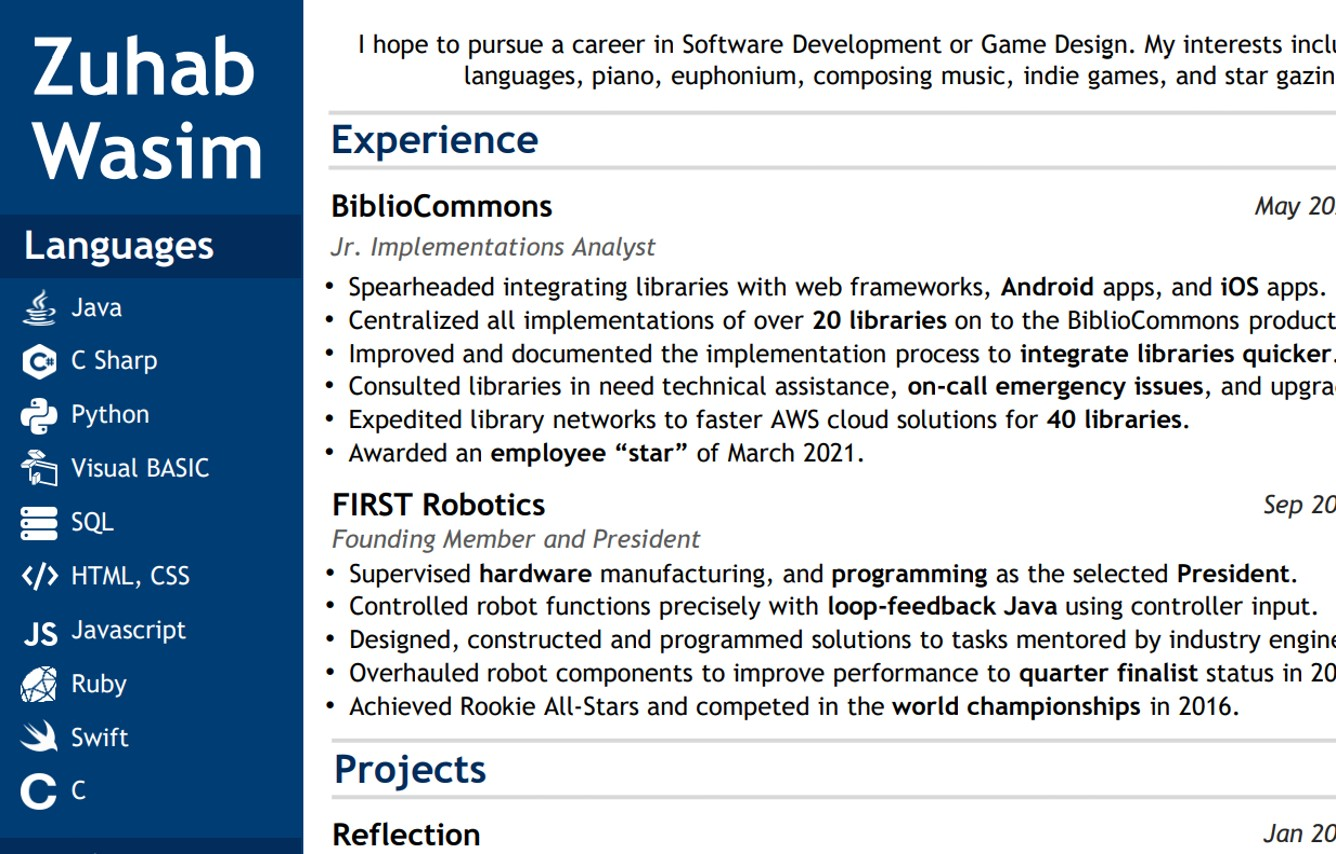
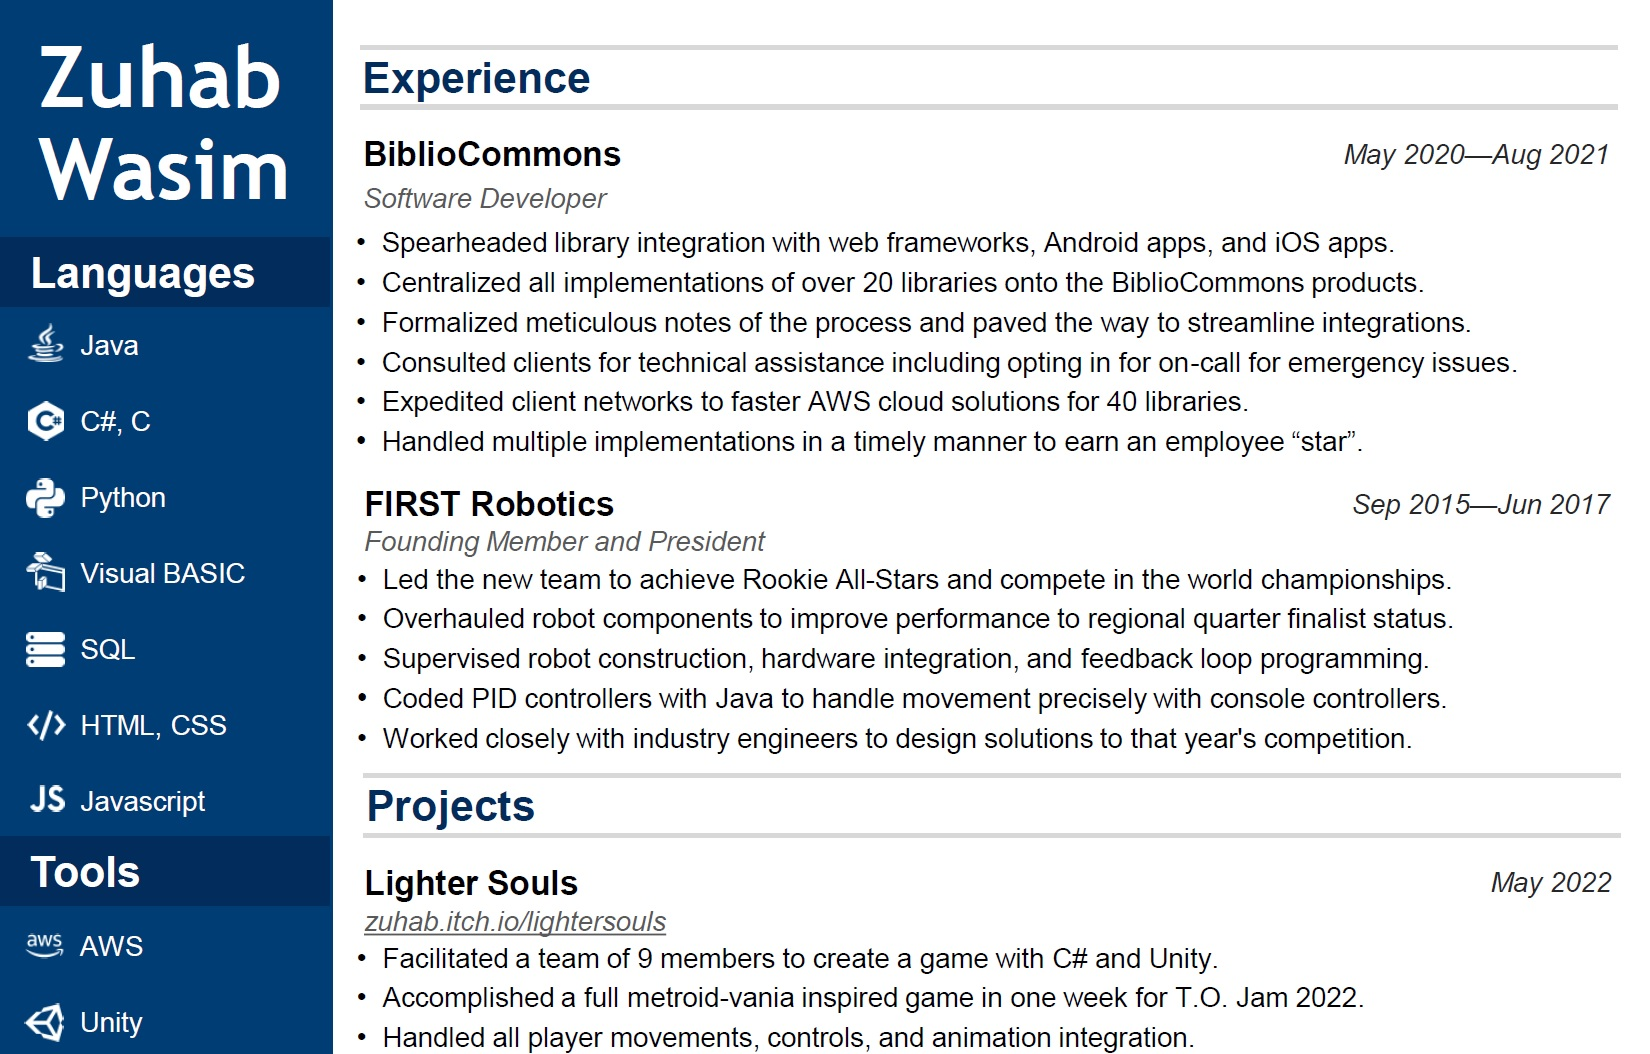
Updated old resume photo

diff --git a/index.html b/index.html
@@ -424,7 +424,7 @@
             <div class="resume-item">
               <h4>Bibliocommons</h4>
               <h5>2020 - 2021</h5>
-              <p><em>Jr. Implementations Engineer</em></p>
+              <p><em>Software Developer</em></p>
               <ul>
                 <li>Spearheaded library integration with web frameworks, Android apps, and iOS apps.</li>
                 <li>Centralized all implementations of over 20 libraries on to the BiblioCommons products.</li>
